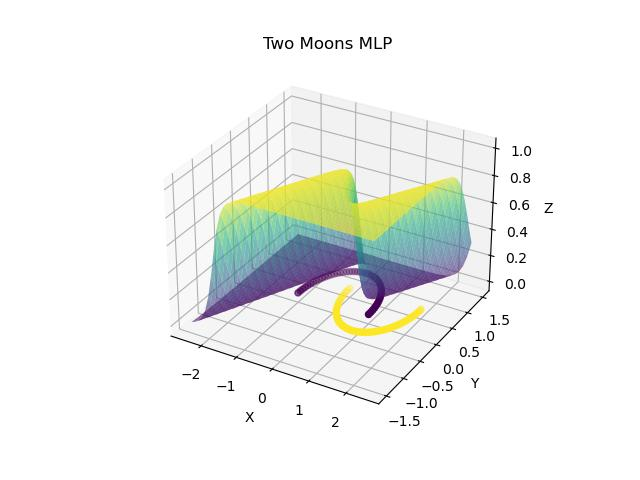
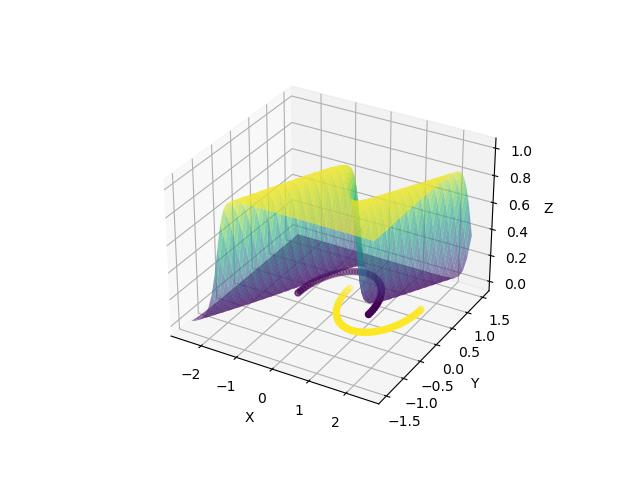
Remove .show from mnist plot remove plot titles

diff --git a/examples/mnist.py b/examples/mnist.py
@@ -29,9 +29,9 @@ class ZeroNet:
 
 model = ZeroNet()
 
-num_row = 2
-num_col = 5
-fig, axes = plt.subplots(num_row, num_col, figsize=(1.5*num_col,2*num_row))
+num_row = 3
+num_col = 4
+fig, axes = plt.subplots(num_row, num_col)
 for i in range(num_row * num_col):
     ax = axes[i//num_col, i%num_col]
     ax.imshow(test_images[i], cmap='gray')
@@ -43,6 +43,5 @@ for i in range(num_row * num_col):
     ax.set_xticklabels([])
     ax.set_yticklabels([])
 
-plt.suptitle("MNIST CNN")
+fig.tight_layout()
 plt.savefig("./examples/plots/mnist-grid.jpg")
-plt.show()

diff --git a/examples/moons.py b/examples/moons.py
@@ -78,7 +78,6 @@ if __name__ == "__main__":
         ax.scatter(inputs[targets == 0, 0], inputs[targets == 0, 1], 0, c='#440154', label='0')
         ax.scatter(inputs[targets == 1, 0], inputs[targets == 1, 1], 0, c='#fde725', label='1')
 
-        plt.title("Two Moons MLP")
         ax.set_xlabel('X')
         ax.set_ylabel('Y')
         ax.set_zlabel('Z')

diff --git a/examples/xor.py b/examples/xor.py
@@ -91,7 +91,6 @@ if __name__ == "__main__":
         fig = plt.figure()
         ax = fig.add_subplot(111, projection="3d")
         ax.plot_surface(X, Y, Z, cmap="viridis")
-        plt.title("XOR MLP")
         plt.xlabel("X")
         plt.ylabel("Y")
         plt.savefig("./examples/plots/xor-3d.jpg")

diff --git a/examples/or.py b/examples/or.py
@@ -82,7 +82,6 @@ if __name__ == "__main__":
         ax = fig.add_subplot(111, projection='3d')
         ax.plot_surface(X, Y, Z, cmap='viridis')
 
-        plt.title('OR Neuron')
         plt.xlabel('X')
         plt.ylabel('Y')
         ax.set_zlabel('Z')
